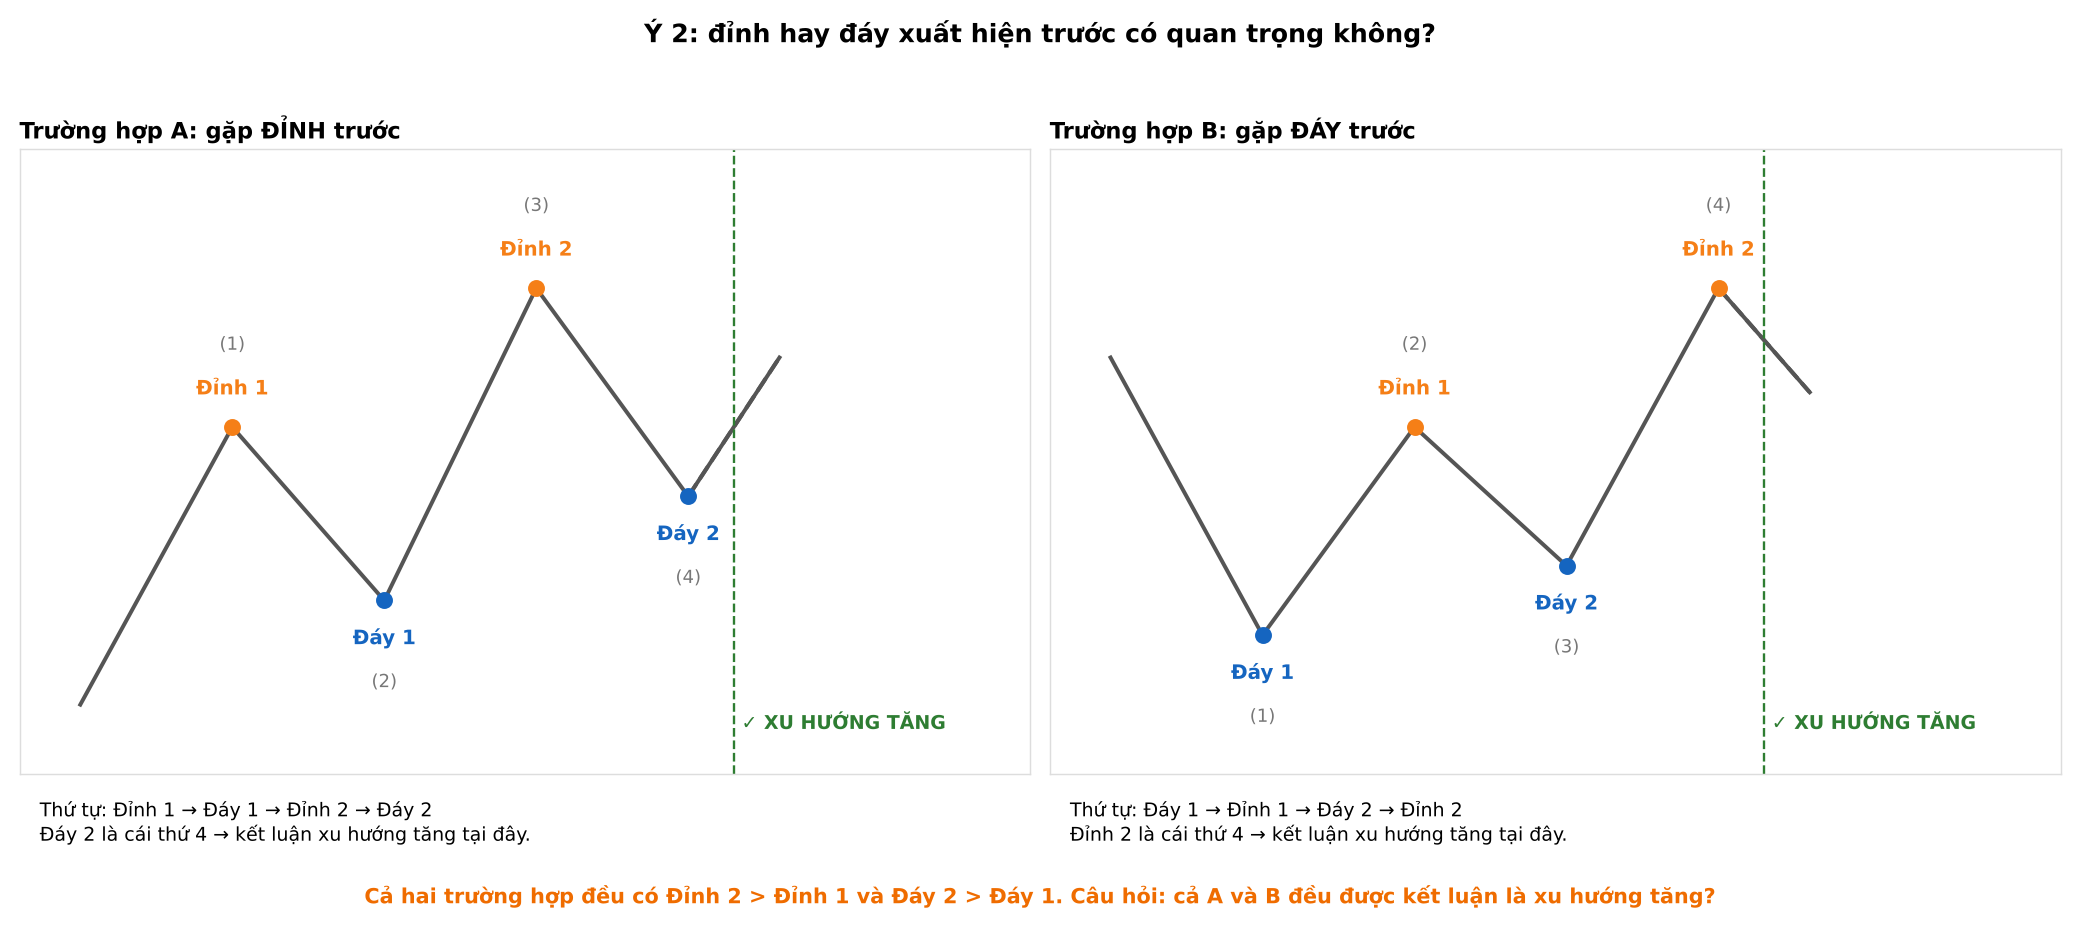
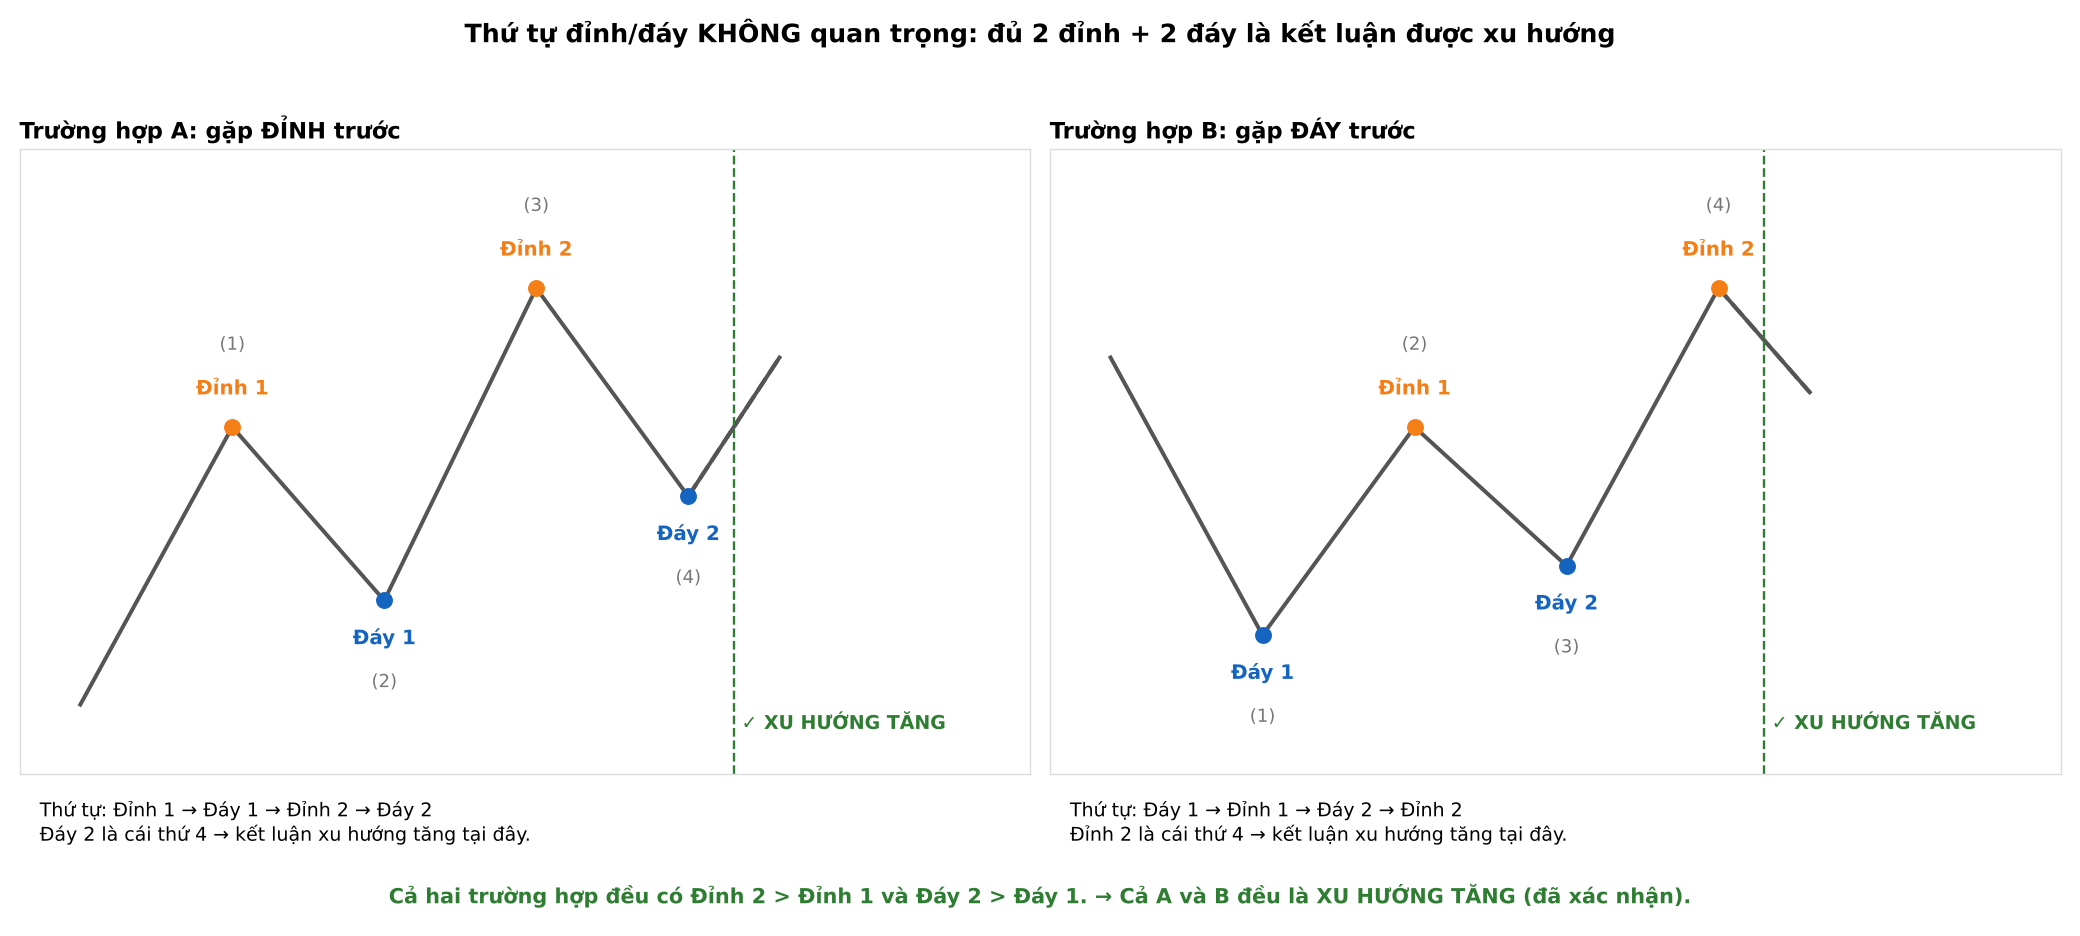
Chốt: thứ tự gặp đỉnh hay đáy trước không quan trọng
Claude-Session: https://claude.ai/code/session_01QDQqkxbAsnss6apbWZAP33

Changed region(s): [[0.1875, 0.9295, 0.8125, 0.9915], [0.2188, 0.0, 0.7812, 0.062]]

diff --git a/knowledge/03-setup.md b/knowledge/03-setup.md
@@ -65,8 +65,8 @@ Ví dụ chart thật: `examples/01-dinh-day-xauusd-h4.jpg`
 - **Xu hướng giảm:** đỉnh sau thấp hơn đỉnh trước VÀ đáy sau thấp hơn đáy trước.
 - **Xác định xu hướng ban đầu:** chỉ cần **2 đỉnh và 2 đáy** (theo mục 1–2) là đủ kết luận.
 - **Thời điểm kết luận xu hướng:** lúc cây nến xác nhận đỉnh/đáy thứ 4 đóng cửa (đã xác nhận).
+- **Thứ tự không quan trọng:** gặp đỉnh trước hay đáy trước đều được, miễn đủ 2 đỉnh + 2 đáy thỏa điều kiện (đã xác nhận, xem `examples/08-thu-tu-dinh-day.png`).
 - Minh họa: `examples/07-xac-dinh-xu-huong.png`
 
 **Chưa chốt:**
-- Thứ tự gặp đỉnh trước hay đáy trước có ảnh hưởng không? (xem `examples/08-thu-tu-dinh-day.png`)
 - Nếu đỉnh cao dần nhưng đáy thấp dần (hoặc ngược lại) thì gọi là gì? (người dùng sẽ xác nhận sau)
